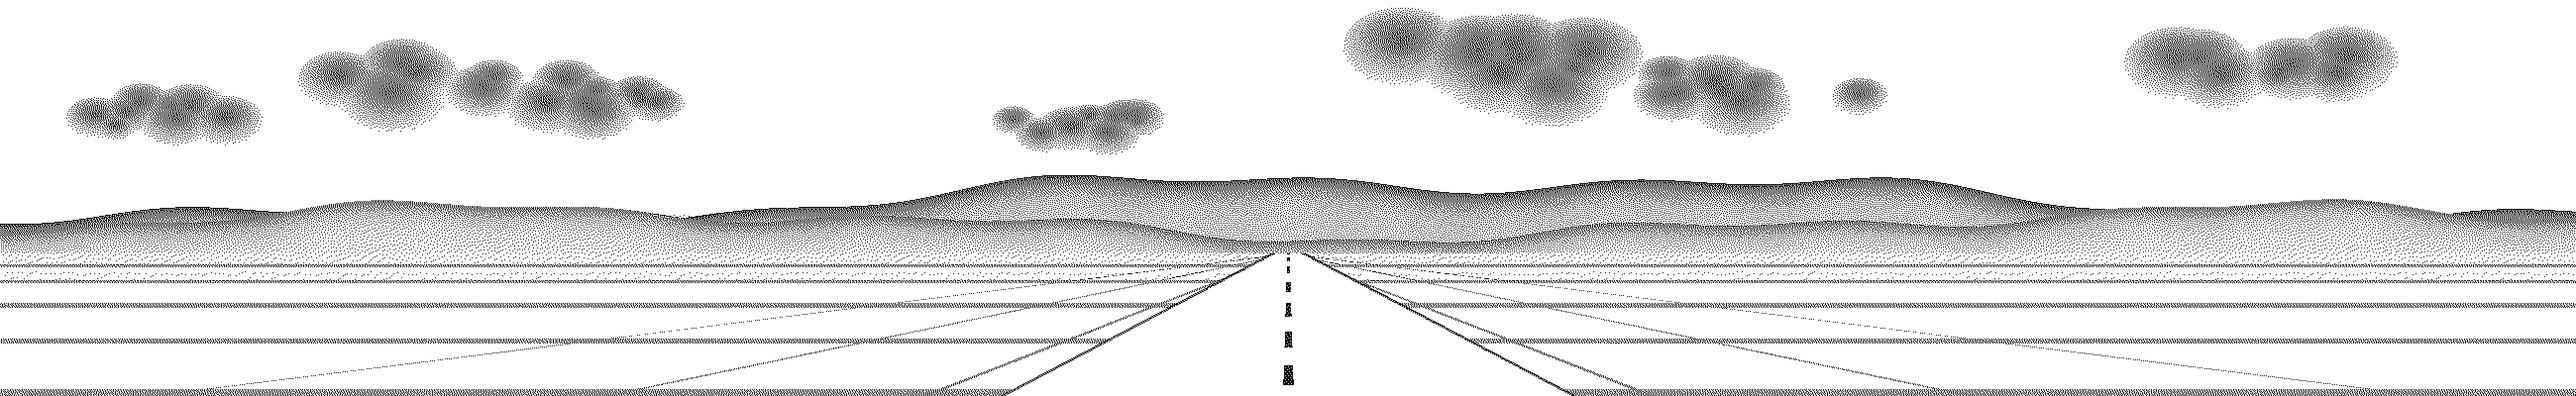
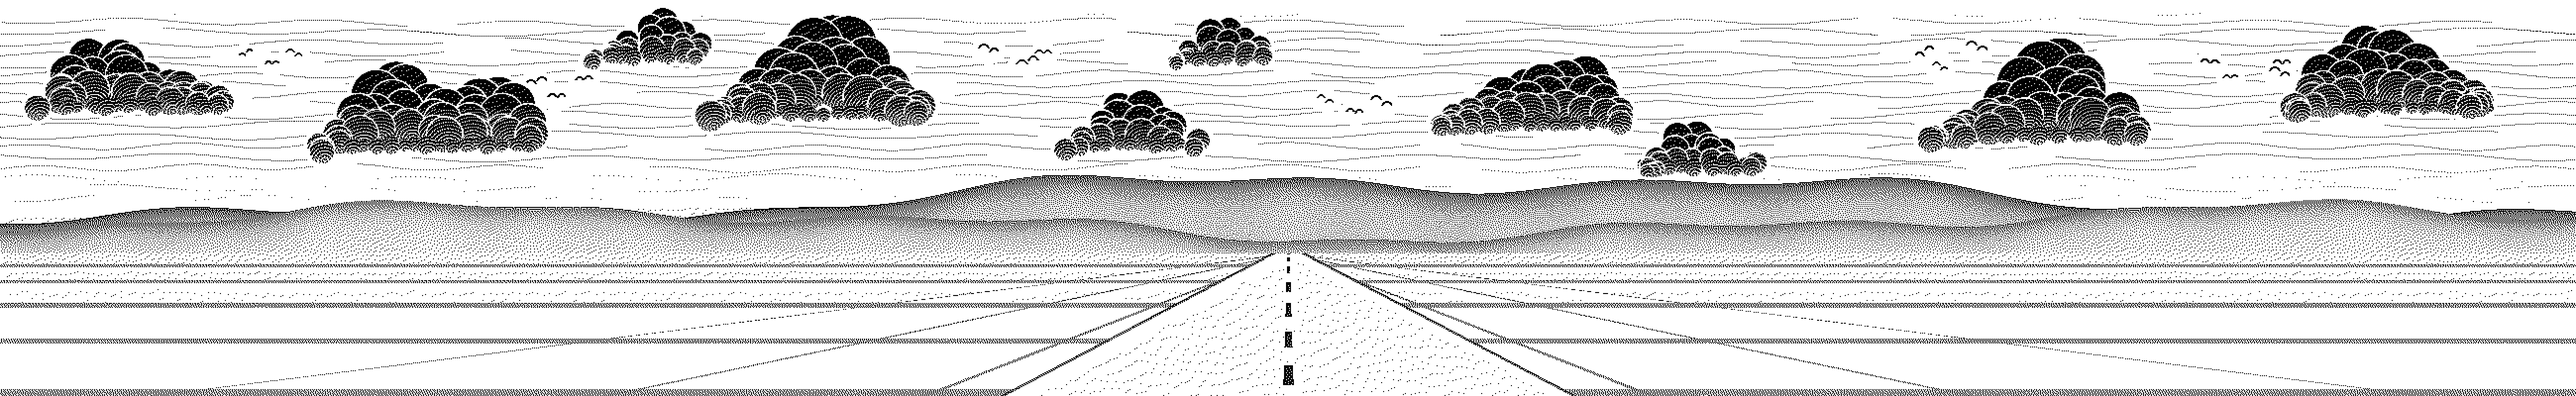
Light theme: engraved sky in the footer, neutral gray panels
- Footer (light theme): the daytime sky is redrawn to match the final CTA,
  with engraved cumulus clouds, curved wind lines and birds over the same
  hills, horizon and road. On the cobalt ground the clouds are white
  bodies with the swirls and puff edges left as gaps. Kept clear of the
  sun (the theme switch) on desktop and phones.
- Light theme colors: removed the bone white. Panels and cards are now
  neutral light grays (#f4f4f4, raised #eaeaea) with neutral borders, and
  footer text, icons and dither are pure white.

Claude-Session: https://claude.ai/code/session_01A1VqEuwrkmMr14CqJk9vdN

diff --git a/src/styles/globals.css b/src/styles/globals.css
@@ -69,50 +69,50 @@ html[data-theme="dark"] {
   color-scheme: dark;
 }
 
-/* Light theme: white with bone white panels and a cobalt accent */
+/* Light theme: white with light gray panels and a cobalt accent */
 html[data-theme="light"] {
-  /* White page; the bone white is kept for panels and cards */
+  /* White page; panels and cards are light neutral grays, a step darker each */
   --bg-color: #ffffff;
   --bg-rgb: 255, 255, 255;
-  --surface: #f4f1ea;
-  --surface-raised: #ebe7de;
+  --surface: #f4f4f4;
+  --surface-raised: #eaeaea;
 
   --text-primary: #141626;
   --text-secondary: #383b52;
   --text-muted: #5b5d70;
 
-  --border-faint: #e3ded3;
-  --border-muted: #c2bbad;
+  --border-faint: #e2e2e2;
+  --border-muted: #bdbdbd;
 
   --primary: #1f3fbf;
   --primary-rgb: 31, 63, 191;
-  --text-on-primary: #f4f1ea;
+  --text-on-primary: #ffffff;
   --focus-ring: #1f3fbf;
 
   --dither: #1f3fbf;
 
   --footer-bg: #1f3fbf;
   --footer-rgb: 31, 63, 191;
-  --footer-text: #f4f1ea;
+  --footer-text: #ffffff;
   --footer-muted: #c8cdee;
   --footer-border: #3a57cc;
-  --footer-dither: #f4f1ea;
+  --footer-dither: #ffffff;
   --footer-accent: #ff6a4d;
-  --footer-icon: #f4f1ea;
-  --footer-cta: #f4f1ea;
+  --footer-icon: #ffffff;
+  --footer-cta: #ffffff;
   --car-body: #0f1c55;
-  --car-rim: rgba(244, 241, 234, 0.75);
+  --car-rim: rgba(255, 255, 255, 0.75);
   --orb-light: #fff6e0;
 
-  --scroll-thumb: #b1aa9c;
+  --scroll-thumb: #bdbdbd;
   --scroll-thumb-hover: #1f3fbf;
 
   --button-bg: #1f3fbf;
   --button-text: #ffffff;
   /* A white glow vanishes on the white page, so light mode uses a soft ink glow */
   --button-glow: 0 0 22px rgba(20, 22, 38, 0.22);
-  /* The footer is cobalt in light mode, so its outline is bone white */
-  --footer-button-border: #f4f1ea;
+  /* The footer is cobalt in light mode, so its outline is white */
+  --footer-button-border: #ffffff;
 
   /* On white a white glow disappears, so neutral things glow cobalt instead */
   --glow-text: 0 0 12px rgba(var(--primary-rgb), 0.2);

diff --git a/src/components/Footer/Footer.module.css b/src/components/Footer/Footer.module.css
@@ -89,7 +89,7 @@
   color: var(--footer-text);
 }
 
-/* Secondary style: an outline pill. Blue outline in dark mode, bone white on the cobalt footer in light mode. */
+/* Secondary style: an outline pill. Blue outline in dark mode, white on the cobalt footer in light mode. */
 .startButton,
 .footer .startButton:hover {
   min-height: 44px;
@@ -148,7 +148,7 @@
   mask: url("/dither/footer-night.png") center bottom / auto 400px no-repeat;
 }
 
-/* Daytime sky: clouds instead of stars */
+/* Daytime sky: engraved clouds, wind lines, and birds instead of stars */
 :global(html[data-theme="light"]) .sceneArt {
   -webkit-mask-image: url("/dither/footer-day.png");
   mask-image: url("/dither/footer-day.png");

diff --git a/src/components/Footer/FooterScene.jsx b/src/components/Footer/FooterScene.jsx
@@ -4,7 +4,7 @@ import ThemeToggle from "../ThemeToggle/ThemeToggle";
 // * Scene at the bottom of the footer. The landscape (mountains, glowing horizon,
 // grid, and road) is a dithered mask image tinted with the theme's footer dither
 // color: at night the sky has stars, constellations, and a shooting star; by day
-// it has clouds. On top sits the moon (the sun by day), which is the theme switch.
+// it has the same engraved clouds, wind lines, and birds as the final CTA. On top sits the moon (the sun by day), which is the theme switch.
 function FooterScene() {
   return (
     <div className={styles.scene}>
